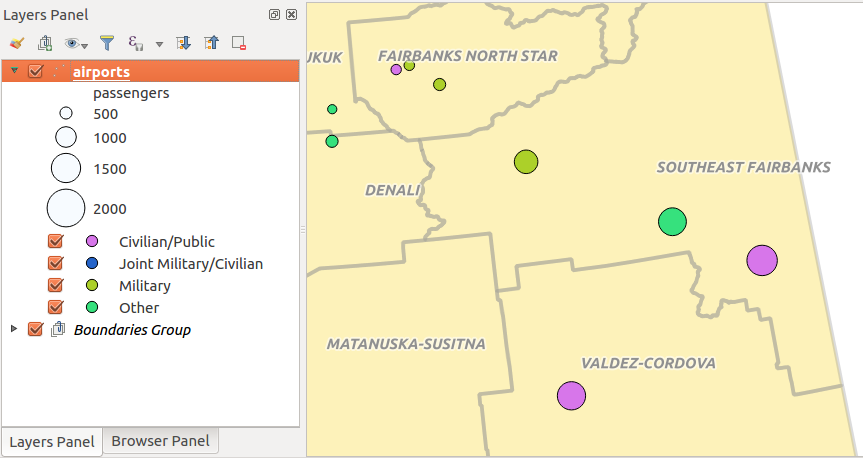
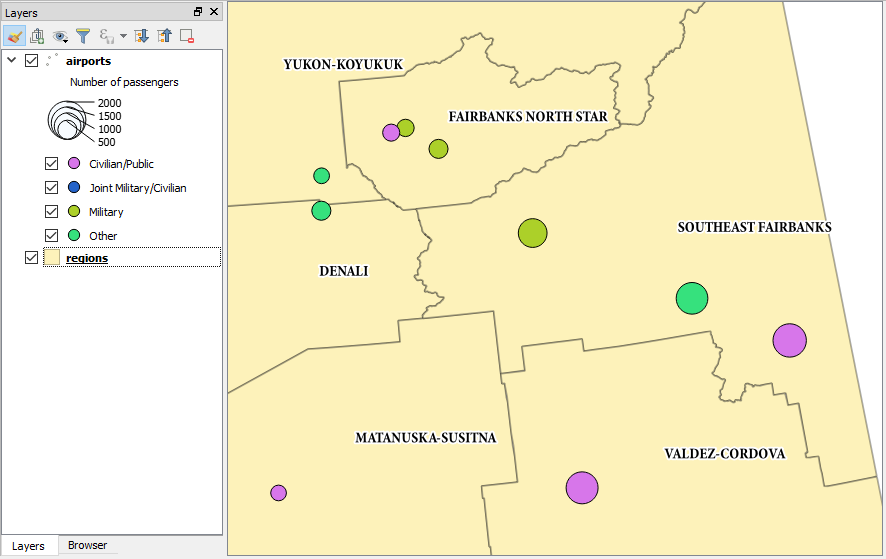
More tweaks on data-defined scaling features
and add screenshots

Changed region(s): [[0.0, 0.0, 1.0, 1.0], [0.6025, 0.5502, 0.7231, 0.6419], [0.1808, 0.4279, 0.2109, 0.4585]]

diff --git a/source/docs/user_manual/working_with_vector/vector_properties.rst b/source/docs/user_manual/working_with_vector/vector_properties.rst
@@ -462,17 +462,35 @@ such representation.
 
 **Creating proportional symbol**
 
-Proportional rendering is done by first applying to the layer the :ref:`single
-symbol renderer <single_symbol_renderer>`. Then set the symbol to use for the
-features, select the item at the upper level of the symbol tree, and use the
-|dataDefined| :guilabel:`Data-defined override` button available beside the
-:guilabel:`Size` (for point layer) or :guilabel:`Width` option (for line layer).
-Select a field or enter an expression and for each feature, QGIS will apply the
-output value to the property and proportionally resize the symbol.
+Proportional rendering is done by:
 
-You can also use the :guilabel:`Size assistant...` option of the |dataDefined|
-menu to apply some transformation (exponential, flannery...) to the symbol size
-rescaling (see :ref:`data_defined_assistant` for more details).
+* first applying to the layer the :ref:`single symbol renderer
+  <single_symbol_renderer>`;
+* then set the symbol to apply to the features;
+* select the item at the upper level of the symbol tree, and use the
+  |dataDefined| :sup:`Data-defined override` :ref:`button <data_defined>` next
+  to the :guilabel:`Size` (for point layer) or :guilabel:`Width` (for line
+  layer) option;
+* select a field or enter an expression, and for each feature, QGIS will apply
+  the output value to the property and proportionally resize the symbol in the
+  map canvas.
+
+  If need be, use the :guilabel:`Size assistant...` option of the |dataDefined|
+  menu to apply some transformation (exponential, flannery...) to the symbol
+  size rescaling (see :ref:`data_defined_assistant` for more details).
+
+You can choose to display the proportional symbols in the :ref:`Layers panel
+<label_legend>` and the :ref:`print layout legend item <layout_legend_item>`:
+unfold the **[Advanced]** drop-down list at the bottom of the main dialog of
+the :guilabel:`Symbology` tab and select **Data-defined size legend...** to
+configure the legend items (see :ref:`data_defined_size_legend` for details).
+
+.. _figure_symbology_proportional:
+
+.. figure:: img/proportional_symbols.png
+   :align: center
+
+   Scaling airports size based on number of passengers
 
 **Creating multivariate analysis**
 
@@ -480,36 +498,31 @@ A multivariate analysis rendering helps you evaluate the relationship between
 two or more variables e.g., one can be represented by a color ramp while the
 other is represented by a size.
 
-The simplest way to create multivariate analysis in QGIS is to first apply
-a categorized or graduated rendering on a layer, using the same type of symbol
-for all the classes. Then, clicking on the symbol **[Change]** button above the
-classification frame, you get the :ref:`symbol-selector` dialog from which,
-as seen above, you can activate and set the :ref:`size assistant <data_defined_assistant>`
-option either on size (for point layer) or width (for line layer).
+The simplest way to create multivariate analysis in QGIS is to:
 
-Like the proportional symbol, the size-related symbol is added to the layer tree,
-at the top of the categorized or graduated classes symbols. And both representation
-are also available in the print layout legend item.
+* first apply a categorized or graduated rendering on a layer, using the same
+  type of symbol for all the classes;
+* Then, apply a proportional symbology on the classes: click on the symbol
+  **[Change]** button above the classification frame: you get the
+  :ref:`symbol-selector` dialog from which, as seen above, you can rescale the
+  size or width using the |dataDefined| :ref:`data defined override` widget.
 
+Like the proportional symbol, the scaled symbology can be added to the layer
+tree, on top of the categorized or graduated classes symbols using the
+:ref:` data defined size legend <size data_defined_size_legend>` feature. And
+both representation are also available in the print layout legend item.
 
 .. _figure_symbology_multivariate:
 
 .. figure:: img/multivariate_example.png
    :align: center
 
-   Multivariate example
+   Multivariate example with scaled size legend
 
 .. tip:: **Add the size scaled symbols to the print layout legend**
 
-  Other than the layer symbol classes, you can also display the symbol scaled
-  sizes in the :guilabel:`Layers` panel and the :ref:`print layout legend
-  <layout_legend_item>`; unfold the **[Advanced]** drop-down list at the
-  bottom of the symbol selector dialog and select **Data-defined size
-  legend...** to configure the legend items (see :ref:`data_defined_size_legend`
-  for details).
 
-
-.. Index::
+.. index::
    single: Symbology; Rule-based renderer
    single: Rule-based renderer; Create a rule
 .. _rule_based_rendering:
@@ -876,6 +889,13 @@ opening a dialog with the following options to:
 A preview of the legend is displayed in the right panel of the dialog and
 updated as you set the parameters. For collapsed legend, a leader line from
 the horizontal center of the symbol to the corresponding legend text is drawn.
+
+.. _figure_size_legend:
+
+.. figure:: img/data_defined_size_legend.png
+   :align: center
+
+   Setting size scaled legend
 
 .. note:: Currently, data-defined size legend for layer symbology can only be
   applied to point layer using single, categorized or graduated symbology.
